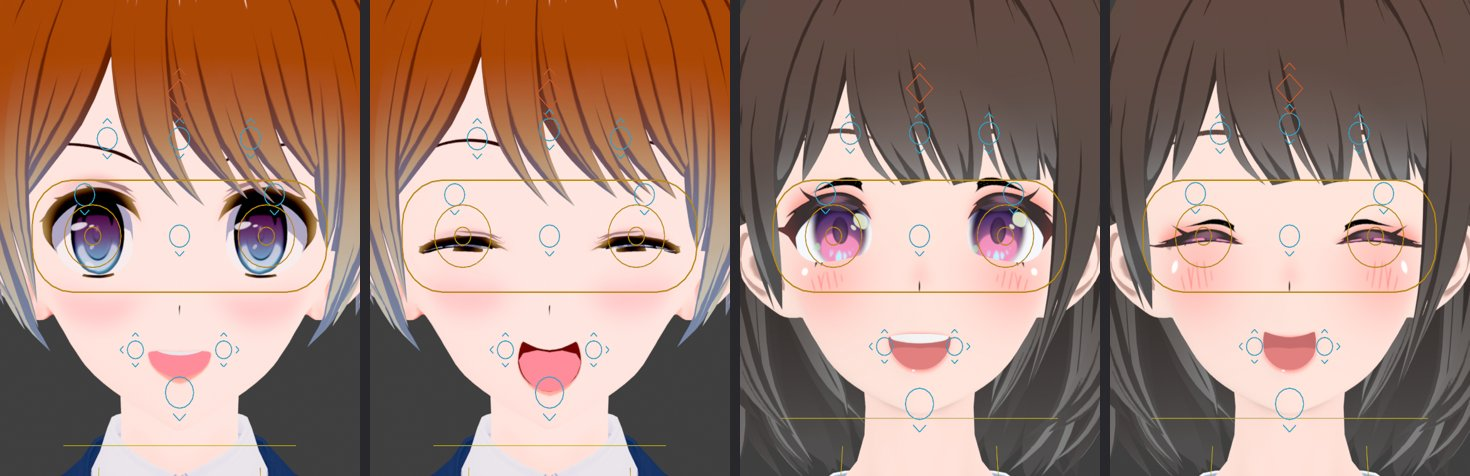
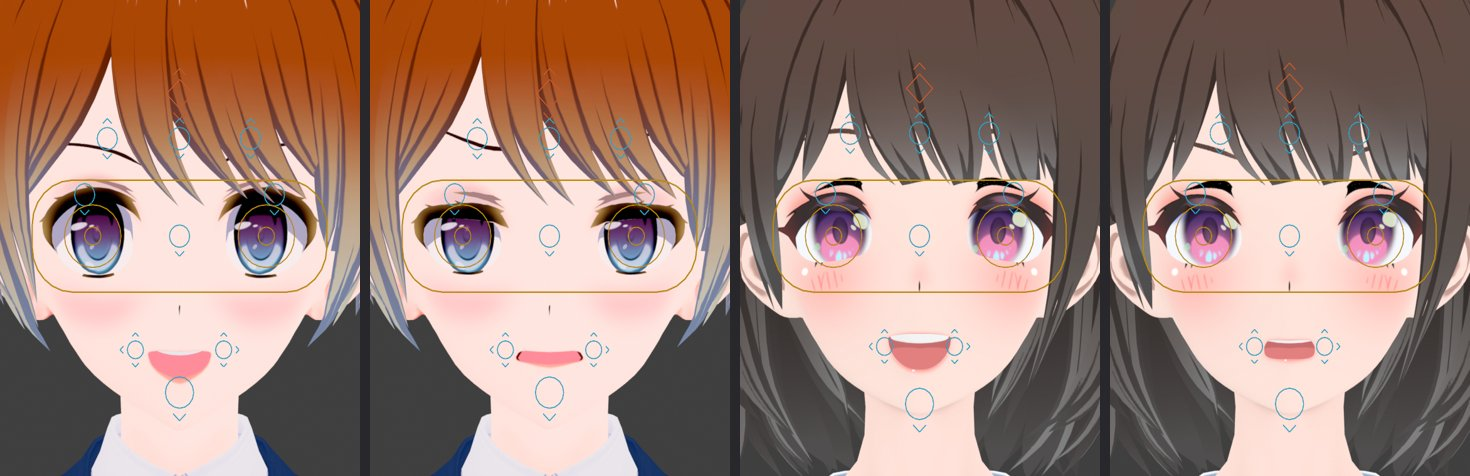
Rigify: the face controls join Emotions; board labels hide with it
The Face bone collection is gone: the face controls and the board are in
Emotions, beside Tongue and Eyes in Rig Layers, and the Core Import's
emptied Face collection is removed from the rig. The board's labels hide
with the Emotions collection through a visibility driver. Snapshots
re-recorded for the moved collections and the label drivers.

Wiki: face-rig.jpg with the Mood control straight up; presets.jpg shows
Happy and Angry instead of Laugh.

diff --git a/importer/kkbp/builtin/rigify/finish/face/board.py b/importer/kkbp/builtin/rigify/finish/face/board.py
@@ -26,7 +26,7 @@ from .....editing import editing
 from .....steps import gag
 from ... import names
 from . import controls, shapes
-from .terms import Term, axis, channel, driver
+from .terms import Term, axis, channel, driver, prop
 
 HEAD = names.ORIGINAL_BONE_PREFIX + names.HEAD_BONE
 SLIDE = 0.03  # a slider's travel
@@ -121,7 +121,7 @@ def build(build, keys, eyes, terms, log) -> dict:
                 sliders.append((None, None, text, None, Vector((cx, y - 0.0015, z - 0.002)), cx))
     rig.data.bones[names.FACE_BOARD_BONE].hide_select = True  # scenery: only its knobs and sliders move
     shapes.lock(rig.pose.bones[names.FACE_BOARD_BONE])
-    shapes.put(rig, names.FACE_BOARD_BONE, names.FACE_LAYER)
+    shapes.put(rig, names.FACE_BOARD_BONE, names.EMOTIONS_LAYER)
 
     labels = _Labels(build, rig)
     reach = {}
@@ -134,7 +134,7 @@ def build(build, keys, eyes, terms, log) -> dict:
         frame.append(([(local.x - half, local.y), (local.x + half, local.y), (local.x, local.y - half),
                        (local.x, local.y + half)], [(0, 1), (2, 3)]))
         pose_bone = rig.pose.bones[bone]
-        shapes.put(rig, bone, names.FACE_LAYER)
+        shapes.put(rig, bone, names.EMOTIONS_LAYER)
         shapes.lock(pose_bone, location=(False, False, True))
         shapes.limit_location(pose_bone, x=(-half, half), y=(-half, half))
         shapes.widget(build, rig, bone, shapes.combine(shapes.circle(half * 0.28), shapes.circle(half * 0.09)),
@@ -165,7 +165,7 @@ def build(build, keys, eyes, terms, log) -> dict:
                        (local.x, local.y + 0.002), (local.x + SLIDE, local.y - 0.002), (local.x + SLIDE, local.y + 0.002)],
                       [(0, 1), (2, 3), (4, 5)]))
         pose_bone = rig.pose.bones[name]
-        shapes.put(rig, name, names.FACE_LAYER)
+        shapes.put(rig, name, names.EMOTIONS_LAYER)
         shapes.lock(pose_bone, location=(False, True, True))
         shapes.limit_location(pose_bone, x=(0.0, SLIDE))
         shapes.widget(build, rig, name, shapes.rect(-0.0022, -0.0038, 0.0022, 0.0038), color=COLORS[colour])
@@ -276,6 +276,9 @@ class _Labels:
         obj.hide_select = True
         obj.hide_render = True
         obj.show_in_front = True
+        # hidden with the board's bone collection
+        driver(obj, "hide_viewport", "not shown",
+               [("shown", prop(self.rig, f'data.collections_all["{names.EMOTIONS_LAYER}"].is_visible'))])
         # The object sits on the frame bone's tail, where its relationship line goes, so the line has
         # no length; the text moves to its place by its own offset (in the text's plane: x across, y up).
         anchor = self.rig.matrix_world @ self.rig.data.bones[names.FACE_BOARD_BONE].tail_local

diff --git a/importer/kkbp/builtin/rigify/finish/face/__init__.py b/importer/kkbp/builtin/rigify/finish/face/__init__.py
@@ -53,13 +53,14 @@ def face_rig(build):
 
     resolved = presets.resolve(keys, reach, set(raw))
     controls_ = [b.name for b in build.rig.data.bones
-                 if b.collections.get(names.FACE_LAYER) and b.name != names.FACE_BOARD_BONE]
+                 if b.collections.get(names.EMOTIONS_LAYER)
+                 and b.name not in (names.FACE_BOARD_BONE, names.FACE_PROPERTIES_BONE)]
     build.rig[names.FACE_DATA_PROPERTY] = json.dumps(
         {"presets": {p: r["ops"] for p, r in resolved.items()}, "expect": {p: r["expect"] for p, r in resolved.items()},
          "panel": panel, "controls": controls_ + [names.EYE_TARGET_BONE, names.LEFT_EYE_TARGET_BONE,
                                                   names.RIGHT_EYE_TARGET_BONE]}, ensure_ascii=False)
     _no_relationship_lines(build.rig)
-    for name in (names.FACE_LAYER, names.EYES_LAYER, names.EMOTIONS_LAYER):
+    for name in (names.EYES_LAYER, names.EMOTIONS_LAYER):
         build.rig.data.collections_all[name].is_visible = True
     log.info(f"The face rig drives {len(controlled)} expression keys from its controls; "
              f"{len(raw)} more have Face Properties sliders")
@@ -69,7 +70,7 @@ def _no_relationship_lines(rig):
     """Each control the face layers show hangs from a hidden pivot whose tail is the control's head,
     so its dashed relationship line has no length. The pivot sits at rest, so the control moves as
     before."""
-    shown = {b.name for name in (names.FACE_LAYER, names.EYES_LAYER, names.EMOTIONS_LAYER)
+    shown = {b.name for name in (names.EYES_LAYER, names.EMOTIONS_LAYER)
              for b in rig.data.collections_all[name].bones if b.parent is not None}
     with editing(rig, "EDIT"):
         edit = rig.data.edit_bones
@@ -99,7 +100,7 @@ def _properties(build, raw):
     pose_bone = rig.pose.bones[names.FACE_PROPERTIES_BONE]
     shapes.lock(pose_bone)
     shapes.widget(build, rig, pose_bone.name, shapes.star(0.022, 0.009), color=STAR_COLOR, wire=2.0)
-    shapes.collection(rig, names.EMOTIONS_LAYER, row=6)
+    shapes.collection(rig, names.EMOTIONS_LAYER, row=10)
     shapes.put(rig, pose_bone.name, names.EMOTIONS_LAYER)
     for name in raw:
         drivers.bone_property(rig, names.FACE_PROPERTIES_BONE, name, default=0.0, min=0.0, max=1.0,

diff --git a/importer/tests/blender/test_builtin_rigify_face.py b/importer/tests/blender/test_builtin_rigify_face.py
@@ -218,13 +218,14 @@ def test_the_look_joystick_moves_the_eyes(ch):
 
 def test_the_layers_and_the_board(ch):
     collections = ch.rig.data.collections_all
-    for name in (names.FACE_LAYER, names.EYES_LAYER, names.EMOTIONS_LAYER):
+    for name in (names.EYES_LAYER, names.EMOTIONS_LAYER):
         assert collections[name].is_visible and len(collections[name].bones) > 0, name
     tweak = collections[names.FACE_TWEAK_LAYER]
     assert not tweak.is_visible and "cf_J_Mayu_L" in [b.name for b in tweak.bones]
     assert ch.rig.data.bones[names.FACE_BOARD_BONE].hide_select
     labels = [o for o in bpy.data.objects if o.parent == ch.rig and o.type == "FONT"]
     assert len(labels) > 30 and all(o.hide_select and o.hide_render for o in labels)
+    assert "Face" not in collections  # the face controls are in Emotions
     for old in ("Eyes handle", "Mouth Widget Controller", "Eyesx", "Eyeballs"):
         assert old not in ch.rig.data.bones, old
     keys = ch.body.data.shape_keys.key_blocks
@@ -260,7 +261,7 @@ def test_no_face_control_draws_a_relationship_line(ch):
     """Blender draws a bone's dashed line from its head to its parent's tail, even to a hidden
     parent: every control the face layers show hangs from a hidden pivot whose tail is its head."""
     collections = ch.rig.data.collections_all
-    shown = {b.name for name in (names.FACE_LAYER, names.EYES_LAYER, names.EMOTIONS_LAYER)
+    shown = {b.name for name in (names.EYES_LAYER, names.EMOTIONS_LAYER)
              for b in collections[name].bones}
     for name in shown:
         bone = ch.rig.data.bones[name]
@@ -277,3 +278,14 @@ def test_no_board_label_draws_a_relationship_line(ch):
     assert labels
     for label in labels:
         assert (label.matrix_world.translation - tail).length < 1e-5, label.name
+
+
+def test_the_board_labels_hide_with_the_emotions_layer(ch):
+    emotions = ch.rig.data.collections_all[names.EMOTIONS_LAYER]
+    labels = [o for o in bpy.data.objects if o.parent == ch.rig and o.type == "FONT"]
+    emotions.is_visible = False
+    bpy.context.view_layer.update()
+    hidden = [o.visible_get() for o in labels]
+    emotions.is_visible = True
+    bpy.context.view_layer.update()
+    assert not any(hidden) and all(o.visible_get() for o in labels)

diff --git a/importer/kkbp/builtin/rigify/finish/face/controls.py b/importer/kkbp/builtin/rigify/finish/face/controls.py
@@ -122,11 +122,11 @@ def build(build, keys, eyes, terms, log) -> dict:
     with editing(rig, "EDIT"):
         for c in made:
             shapes.new_bone(rig.data.edit_bones, bone_name(c), where[c], parent=HEAD, length=0.006)
-    shapes.collection(rig, names.FACE_LAYER, row=10)
+    shapes.collection(rig, names.EMOTIONS_LAYER, row=10)
     for c in made:
         y_range, x_range, kind = CONTROLS[c]
         pose_bone = rig.pose.bones[bone_name(c)]
-        shapes.put(rig, pose_bone.name, names.FACE_LAYER)
+        shapes.put(rig, pose_bone.name, names.EMOTIONS_LAYER)
         shapes.lock(pose_bone, location=(x_range is None, False, True))
         shapes.limit_location(pose_bone, x=x_range, y=y_range)
         shapes.widget(build, rig, pose_bone.name, _shape(c, kind), color=EMOTE_COLOR if kind == "emote" else COLOR)

diff --git a/importer/kkbp/tools/face.py b/importer/kkbp/tools/face.py
@@ -67,8 +67,8 @@ def key(rig, frame):
         return
     for name in found["controls"]:
         if bone := rig.pose.bones.get(name):
-            bone.keyframe_insert("location", frame=frame, group=names.FACE_LAYER)
-            bone.keyframe_insert("scale", frame=frame, group=names.FACE_LAYER)
+            bone.keyframe_insert("location", frame=frame, group=names.EMOTIONS_LAYER)
+            bone.keyframe_insert("scale", frame=frame, group=names.EMOTIONS_LAYER)
     for _, keys in found["panel"]:
         for k in keys:
             rig.keyframe_insert(f'pose.bones["{names.FACE_PROPERTIES_BONE}"]["{k}"]', frame=frame,

diff --git a/importer/kkbp/builtin/rigify/names.py b/importer/kkbp/builtin/rigify/names.py
@@ -544,9 +544,9 @@ FK_LAYER_SUFFIX = " FK"
 HAIR_LAYER = "Hair/Accessories"
 TONGUE_LAYER = "Tongue"
 RIGGED_TONGUE_LAYER = "Rigged tongue"
-# The face rig's collections (finish/face), and the game face bones', hidden, for bone-level tweaks.
+# The face rig's collections (finish/face): its face controls, board and Face Properties bone in
+# Emotions, the eye targets in Eyes; and the game face bones', hidden, for bone-level tweaks.
 EMOTIONS_LAYER = "Emotions"
-FACE_LAYER = "Face"
 EYES_LAYER = "Eyes"
 FACE_TWEAK_LAYER = "Face Tweak"
 FACE_MCH_LAYER = "Face (MCH)"

diff --git a/importer/kkbp/builtin/rigify/finish/fixups.py b/importer/kkbp/builtin/rigify/finish/fixups.py
@@ -118,6 +118,11 @@ def root_colour(build):
 
 
 def visible_collections(build):
+    # The Core Import's Face collection is left empty once its bones are sorted (the face rig's
+    # controls go in Emotions).
+    leftover = build.rig.data.collections_all.get(names.ORIGINAL_UPPER_FACE_LAYER_INDEX)
+    if leftover is not None and not leftover.bones and not leftover.children:
+        build.rig.data.collections.remove(leftover)
     for collection in build.rig.data.collections_all:
         collection.is_visible = False
     for name in VISIBLE:

diff --git a/docs/adr/0058-the-face-rig-drives-the-expression-keys-through-face-key-roles.md b/docs/adr/0058-the-face-rig-drives-the-expression-keys-through-face-key-roles.md
@@ -30,6 +30,6 @@ Hooks don't get the profile, so the `record_face_keys` Step writes the roles Bod
 - **No Game has one-sided brow or mouth corner keys.** One side's control drives a half of the Game's key: a copy whose offsets fade out over a few millimetres across the face's middle (`Eyebrow Excited (L)`, `Mouth Smiling, Closed (R)`).
 - **Simple expressions only.** Every driver is a simple expression, so the face moves with auto-run Python off. The panel is the add-on's, so no script is kept in the .blend.
 - **Removed:** the eye handles, markers, eyeballs and track bones, `Eyesx`, the grid's bones and widgets, and its `(Copy)` and `Custom Key` shape keys. Head tracking, which shared the eye-handle code, is now `metarig/head_track.py`. Its target sits where the Eyes handle did, and its settings keep their names.
-- **Bone collections.** The game face bones move from `Face` to a hidden `Face Tweak`, and the tongue from `Eyes/Rig.Tongue` to `Tongue`. `Face`, `Eyes` and `Emotions` hold the new controls.
+- **Bone collections.** The game face bones move from `Face` to a hidden `Face Tweak`, and the tongue from `Eyes/Rig.Tongue` to `Tongue`. `Emotions` holds the new face controls, the board and the Face Properties bone, and `Eyes` the eye targets; there is no `Face` collection.
 - **Legacy names.** ADR 0023's rule that the rig keeps the legacy importer's names gives way for the face: an action keyed on the old eye handles or grid controllers no longer finds them. Head tracking keeps its names.
 - **The rig changed on purpose.** The Hook snapshots and the rig fingerprint baseline were re-recorded (ADR 0043).

diff --git a/docs/wiki/expressions.md b/docs/wiki/expressions.md
@@ -2,7 +2,7 @@
 
 Every eye and mouth expression of the game comes into Blender as a shape key with an English name, and the rig has face controls and emotion presets for them.
 
-![The Happy and Laugh presets on a Koikatsu and a Summer Vacation Scramble character](images/expressions/presets.jpg)
+![The Happy and Angry presets on a Koikatsu and a Summer Vacation Scramble character](images/expressions/presets.jpg)
 
 ## Shape keys
 
@@ -10,7 +10,7 @@ The body's shape keys are named by what they do, with their category first: `Eye
 
 ## The face rig
 
-With the [Rigify rig](rig.md), the face has controls where they act, and a board beside the head for the rest. They show with the Face, Eyes and Emotions rows of Rig Layers.
+With the [Rigify rig](rig.md), the face has controls where they act, and a board beside the head for the rest. They show with the Emotions and Eyes rows of Rig Layers.
 
 ![The face controls and the board beside the head, on a Summer Vacation Scramble character with outlines](images/expressions/face-rig.jpg)
 

diff --git a/docs/wiki/troubleshooting.md b/docs/wiki/troubleshooting.md
@@ -29,7 +29,7 @@ The exporter writes to the game's BepInEx log (`BepInEx/LogOutput.log`, or `outp
 | Edit Material or Export Prep can't find the export | They read the export folder again: put it back where it was imported from |
 | There are no outlines | Outlines are left out for the Cycles and Principled shaders |
 | A seam shows around the neck or down the chest | Report it with the card: every import welds the face and body together, so a seam is a bug |
-| The face controls or other rig controls aren't showing | Show them in Rig Layers, in the sidebar's Item tab; the face controls are the Face, Eyes and Emotions rows |
+| The face controls or other rig controls aren't showing | Show them in Rig Layers, in the sidebar's Item tab; the face controls are the Emotions and Eyes rows |
 | Colours look washed out or too strong | Set the scene's View Transform to Standard (the import does this for you) |
 
 Deleting an export's `kkbp_cache/` folder is always safe; the importer makes it again.
